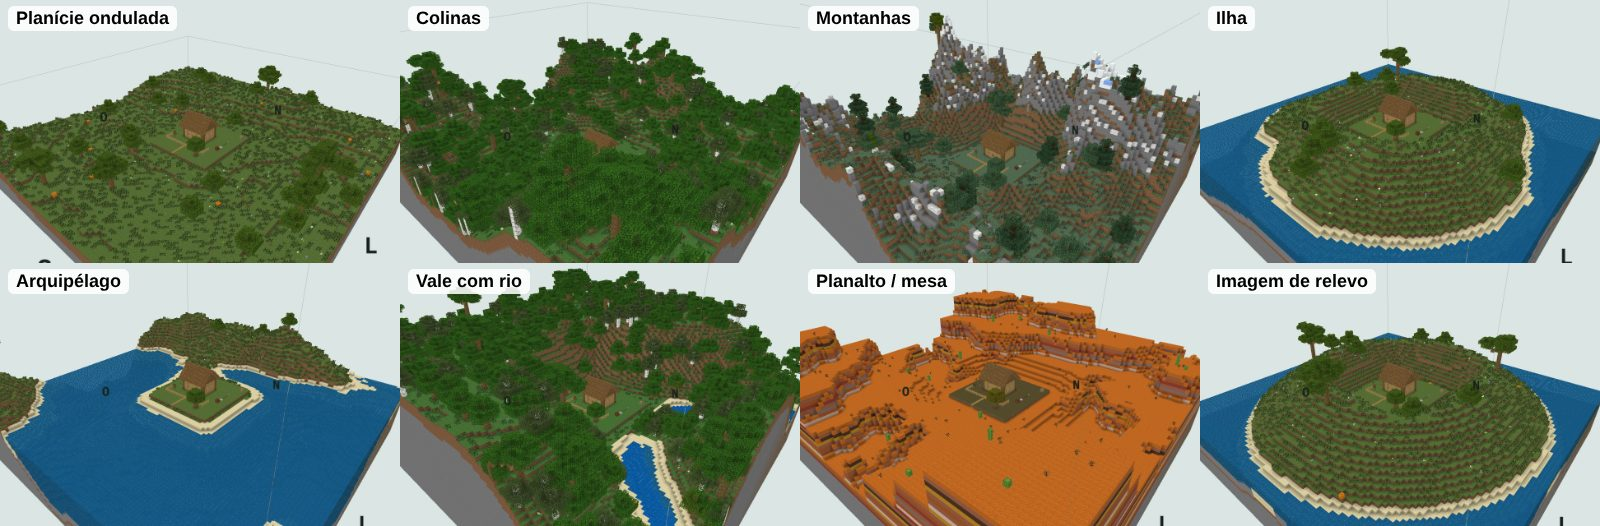
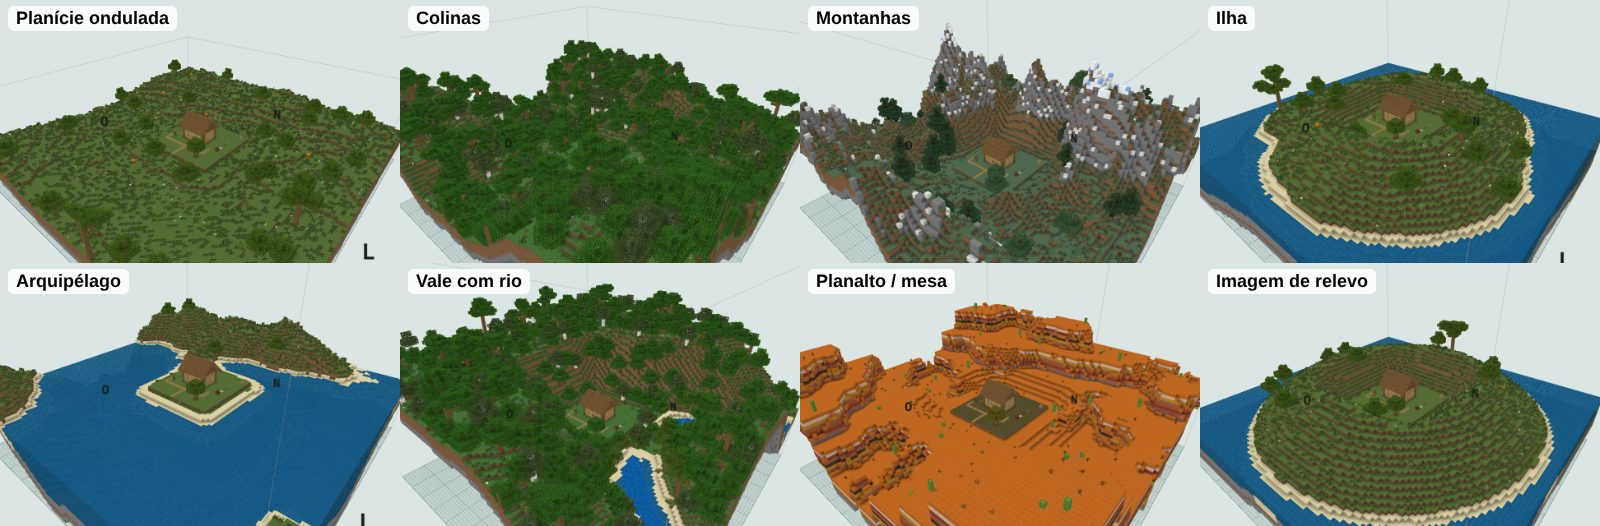
Gerar terreno: só a superfície (casca de 6 blocos)
O terreno deixa de preencher a coluna inteira até o fundo: fica uma casca de 6 blocos (grama
ou o chão do bioma, 3 de terra, 2 de pedra) que, nas encostas e paredões, desce até um abaixo
do topo da coluna vizinha mais baixa, para o lado não ficar oco. Embaixo fica vazio (montanhas
em volta da casa de exemplo: 68 mil blocos em vez de 250 mil). Guia e mosaico atualizados.

Claude-Session: https://claude.ai/code/session_01JyiX1qU1TmM8hzKqaAeyea

Changed region(s): [[0.0, 0.0304, 1.0, 1.0], [0.1562, 0.943, 0.2188, 1.0], [0.9375, 0.4563, 0.9688, 0.4867]]

diff --git a/guia/guia.html b/guia/guia.html
@@ -369,12 +369,13 @@ ol.steps li::marker{font:600 14px var(--mono);color:var(--accent)}
     <figure><img src="img/terreno-janela.jpg" alt="Janela Gerar terreno com a prévia vista de cima (a construção em vermelho), onde gerar, margem, tipo, bioma, altura, tamanho das formas, rugosidade, nível da água, semente e árvores e plantas" width="536" height="674" loading="lazy"><figcaption>A prévia de cima muda na hora; a construção aparece em vermelho.</figcaption></figure>
     <ul class="plain">
       <li><b>Onde</b>: <b>em volta da construção</b> (com a margem escolhida, de 8 a 256 blocos), <b>dentro da seleção</b> ou no <b>espaço inteiro</b>. Só os espaços vazios são preenchidos: nada do que você construiu é coberto.</li>
+      <li>Só a <b>superfície</b>: o terreno é uma casca de 6 blocos (grama ou o chão do bioma, 3 de terra e 2 de pedra). Nas encostas e paredões a casca desce até cobrir o lado à mostra, então não aparecem buracos; embaixo fica vazio. Assim pesa bem menos (montanhas em volta da casa de exemplo: 68 mil blocos em vez de 250 mil). Ao exportar o .mcstructure com <b>deixar o terreno intacto</b>, esse vazio embaixo mantém o chão que já existe no mundo.</li>
       <li><b>Tipo</b>: planície ondulada, colinas, montanhas (neve e pedra no alto, encostas de pedra), ilha (a construção fica no meio, com praia e mar em volta), arquipélago, vale com rio (o rio corre pelo lado com mais espaço, longe da construção), planalto / mesa (degraus com paredões e as faixas de terracota) e <b>imagem de relevo</b> (uma imagem em tons de cinza: branco alto, preto baixo).</li>
       <li><b>Bioma</b>: automático (o de cada tipo), <b>misto</b> (muda pelo terreno, de neve a deserto, como o clima do jogo) ou um bioma escolhido. A beira da água vira praia, o fundo vira oceano ou rio, e o alto das montanhas, neve e pedra. Os biomas são pintados nas colunas, então a cor da grama e das folhas sai certa, e vão para o mundo do jogo no .mcworld.</li>
       <li><b>Altura</b>, <b>tamanho das formas</b> (morros pequenos e próximos ou grandes e espaçados), <b>rugosidade</b>, <b>nível da água</b> (em relação ao chão da construção; desmarque para não ter água) e <b>semente</b> (a mesma semente dá o mesmo relevo; 🎲 sorteia outra). <b>Árvores e plantas</b> pode ser desligado; perto da construção não nascem árvores.</li>
       <li>Se faltar lugar (terreno embaixo da construção, a margem em volta, a altura das montanhas), o <b>espaço cresce</b> e a construção é movida: a janela avisa antes, e isso recomeça o histórico de desfazer. Depois, a geração inteira é <b>um passo</b> de <kbd>Ctrl</kbd>+<kbd>Z</kbd>.</li>
       <li>A água gerada fica parada como foi posta (não escorre pelas bordas do terreno). Dá para continuar com a escultura, o pincel de bioma e o balde por cima.</li>
-      <li>Tempo: em volta da casa de exemplo (10 mil colunas), de 1,5 a 4 s; montanhas com margem de 128 (70 mil colunas, 1,8 milhão de blocos), uns 5 s.</li>
+      <li>Tempo: em volta da casa de exemplo (10 mil colunas), de 1 a 2 s; com margem de 128 (70 mil colunas), uns 5 s.</li>
     </ul>
   </div>
   <h3>Simetria (espelho)</h3>
@@ -1053,7 +1054,7 @@ ol.steps li::marker{font:600 14px var(--mono);color:var(--accent)}
       <tr><td>Árvores com Usar</td><td>O formato imita o das árvores do jogo, mas não é idêntico ao gerador do Minecraft. Ninhos de abelha e o coração de rangedor não aparecem; fungos e cogumelos crescem em qualquer chão.</td></tr>
       <tr><td>Copiar e colar</td><td>A cópia do Ctrl+C fica só nesta aba (não vai para a área de transferência do sistema e some ao recarregar a página); para guardar, use a biblioteca. Girar é só de 90° na horizontal (com o espelhar, cobre as 8 posições no chão).</td></tr>
       <tr><td>Esculpir e simetria</td><td>O pincel de escultura trabalha coluna por coluna (não faz cavernas nem arcos). Na simetria, a água que escorre de uma fonte espelhada segue o próprio caminho (o escorrer não é espelhado), e cópias que caem fora do espaço não são feitas.</td></tr>
-      <tr><td>Gerar terreno</td><td>O terreno é maciço: sem cavernas nem minérios. Não reproduz o gerador do jogo (a mesma semente não dá o mesmo mundo do Minecraft). Com um mundo do jogo aberto, o terreno precisa caber na área. A imagem de relevo não fica salva (escolha de novo para gerar outra vez).</td></tr>
+      <tr><td>Gerar terreno</td><td>O terreno é só a superfície (casca de 6 blocos): embaixo fica vazio, sem cavernas nem minérios, e a borda vista de lado mostra a casca. Não reproduz o gerador do jogo (a mesma semente não dá o mesmo mundo do Minecraft). Com um mundo do jogo aberto, o terreno precisa caber na área. A imagem de relevo não fica salva (escolha de novo para gerar outra vez).</td></tr>
       <tr><td>Fantasma para o survival</td><td>Um por vez (exportar de novo substitui). Só aparece até uns 64 blocos do suporte (por isso os pedaços de 32 × 32) e pode sumir olhando reto para cima, bem acima do suporte. Não confere se você colocou o bloco certo: um bloco sólido colocado só esconde o fantasma daquele lugar. Baús, camas, placas e estandartes aparecem simplificados, como no editor. Biomas não mudam a cor do capim no fantasma (sai a cor padrão). Funciona em mundos e Realms onde você pode ativar pacotes de recursos; servidores que obrigam o próprio pacote podem bloquear.</td></tr>
       <tr><td>Redstone</td><td>Não funcionam: TNT, dispensador, liberador, fabricador, sensor de sculk e bloco de comando. O sino aparece sem o corpo (só a armação). Os contêineres não guardam itens: o comparador lê o nível de conteúdo escolhido com Usar, que não vai para o mundo do jogo; o atril dá sempre 1 com livro (sem páginas a contar) e a moldura sempre 0. O baú com armadilha aberto conta como um jogador só (sinal 1). Carrinho, raio e armadilha são simulados com Usar (não há criaturas no editor); o baú aberto não fica salvo. Blocos empurrados pelo pistão não derrubam o que estava em cima deles (pó, tochas e plantas podem ficar flutuando), e o pistão não empurra a água. O sensor de luz considera o céu aberto (sem chuva e sem blocos em cima).</td></tr>
       <tr><td>Água e lava</td><td>Só escorrem para espaços vazios: não levam embora plantas e tochas nem enchem blocos (sem <i>waterlogging</i>). A superfície é plana em cada bloco (o jogo inclina entre níveis). A lava escorre como no mundo normal, não como no Nether.</td></tr>

diff --git a/guia/index.html b/guia/index.html
@@ -371,12 +371,13 @@ ol.steps li::marker{font:600 14px var(--mono);color:var(--accent)}
     <figure><img src="img/terreno-janela.jpg" alt="Janela Gerar terreno com a prévia vista de cima (a construção em vermelho), onde gerar, margem, tipo, bioma, altura, tamanho das formas, rugosidade, nível da água, semente e árvores e plantas" width="536" height="674" loading="lazy"><figcaption>A prévia de cima muda na hora; a construção aparece em vermelho.</figcaption></figure>
     <ul class="plain">
       <li><b>Onde</b>: <b>em volta da construção</b> (com a margem escolhida, de 8 a 256 blocos), <b>dentro da seleção</b> ou no <b>espaço inteiro</b>. Só os espaços vazios são preenchidos: nada do que você construiu é coberto.</li>
+      <li>Só a <b>superfície</b>: o terreno é uma casca de 6 blocos (grama ou o chão do bioma, 3 de terra e 2 de pedra). Nas encostas e paredões a casca desce até cobrir o lado à mostra, então não aparecem buracos; embaixo fica vazio. Assim pesa bem menos (montanhas em volta da casa de exemplo: 68 mil blocos em vez de 250 mil). Ao exportar o .mcstructure com <b>deixar o terreno intacto</b>, esse vazio embaixo mantém o chão que já existe no mundo.</li>
       <li><b>Tipo</b>: planície ondulada, colinas, montanhas (neve e pedra no alto, encostas de pedra), ilha (a construção fica no meio, com praia e mar em volta), arquipélago, vale com rio (o rio corre pelo lado com mais espaço, longe da construção), planalto / mesa (degraus com paredões e as faixas de terracota) e <b>imagem de relevo</b> (uma imagem em tons de cinza: branco alto, preto baixo).</li>
       <li><b>Bioma</b>: automático (o de cada tipo), <b>misto</b> (muda pelo terreno, de neve a deserto, como o clima do jogo) ou um bioma escolhido. A beira da água vira praia, o fundo vira oceano ou rio, e o alto das montanhas, neve e pedra. Os biomas são pintados nas colunas, então a cor da grama e das folhas sai certa, e vão para o mundo do jogo no .mcworld.</li>
       <li><b>Altura</b>, <b>tamanho das formas</b> (morros pequenos e próximos ou grandes e espaçados), <b>rugosidade</b>, <b>nível da água</b> (em relação ao chão da construção; desmarque para não ter água) e <b>semente</b> (a mesma semente dá o mesmo relevo; 🎲 sorteia outra). <b>Árvores e plantas</b> pode ser desligado; perto da construção não nascem árvores.</li>
       <li>Se faltar lugar (terreno embaixo da construção, a margem em volta, a altura das montanhas), o <b>espaço cresce</b> e a construção é movida: a janela avisa antes, e isso recomeça o histórico de desfazer. Depois, a geração inteira é <b>um passo</b> de <kbd>Ctrl</kbd>+<kbd>Z</kbd>.</li>
       <li>A água gerada fica parada como foi posta (não escorre pelas bordas do terreno). Dá para continuar com a escultura, o pincel de bioma e o balde por cima.</li>
-      <li>Tempo: em volta da casa de exemplo (10 mil colunas), de 1,5 a 4 s; montanhas com margem de 128 (70 mil colunas, 1,8 milhão de blocos), uns 5 s.</li>
+      <li>Tempo: em volta da casa de exemplo (10 mil colunas), de 1 a 2 s; com margem de 128 (70 mil colunas), uns 5 s.</li>
     </ul>
   </div>
   <h3>Simetria (espelho)</h3>
@@ -1055,7 +1056,7 @@ ol.steps li::marker{font:600 14px var(--mono);color:var(--accent)}
       <tr><td>Árvores com Usar</td><td>O formato imita o das árvores do jogo, mas não é idêntico ao gerador do Minecraft. Ninhos de abelha e o coração de rangedor não aparecem; fungos e cogumelos crescem em qualquer chão.</td></tr>
       <tr><td>Copiar e colar</td><td>A cópia do Ctrl+C fica só nesta aba (não vai para a área de transferência do sistema e some ao recarregar a página); para guardar, use a biblioteca. Girar é só de 90° na horizontal (com o espelhar, cobre as 8 posições no chão).</td></tr>
       <tr><td>Esculpir e simetria</td><td>O pincel de escultura trabalha coluna por coluna (não faz cavernas nem arcos). Na simetria, a água que escorre de uma fonte espelhada segue o próprio caminho (o escorrer não é espelhado), e cópias que caem fora do espaço não são feitas.</td></tr>
-      <tr><td>Gerar terreno</td><td>O terreno é maciço: sem cavernas nem minérios. Não reproduz o gerador do jogo (a mesma semente não dá o mesmo mundo do Minecraft). Com um mundo do jogo aberto, o terreno precisa caber na área. A imagem de relevo não fica salva (escolha de novo para gerar outra vez).</td></tr>
+      <tr><td>Gerar terreno</td><td>O terreno é só a superfície (casca de 6 blocos): embaixo fica vazio, sem cavernas nem minérios, e a borda vista de lado mostra a casca. Não reproduz o gerador do jogo (a mesma semente não dá o mesmo mundo do Minecraft). Com um mundo do jogo aberto, o terreno precisa caber na área. A imagem de relevo não fica salva (escolha de novo para gerar outra vez).</td></tr>
       <tr><td>Fantasma para o survival</td><td>Um por vez (exportar de novo substitui). Só aparece até uns 64 blocos do suporte (por isso os pedaços de 32 × 32) e pode sumir olhando reto para cima, bem acima do suporte. Não confere se você colocou o bloco certo: um bloco sólido colocado só esconde o fantasma daquele lugar. Baús, camas, placas e estandartes aparecem simplificados, como no editor. Biomas não mudam a cor do capim no fantasma (sai a cor padrão). Funciona em mundos e Realms onde você pode ativar pacotes de recursos; servidores que obrigam o próprio pacote podem bloquear.</td></tr>
       <tr><td>Redstone</td><td>Não funcionam: TNT, dispensador, liberador, fabricador, sensor de sculk e bloco de comando. O sino aparece sem o corpo (só a armação). Os contêineres não guardam itens: o comparador lê o nível de conteúdo escolhido com Usar, que não vai para o mundo do jogo; o atril dá sempre 1 com livro (sem páginas a contar) e a moldura sempre 0. O baú com armadilha aberto conta como um jogador só (sinal 1). Carrinho, raio e armadilha são simulados com Usar (não há criaturas no editor); o baú aberto não fica salvo. Blocos empurrados pelo pistão não derrubam o que estava em cima deles (pó, tochas e plantas podem ficar flutuando), e o pistão não empurra a água. O sensor de luz considera o céu aberto (sem chuva e sem blocos em cima).</td></tr>
       <tr><td>Água e lava</td><td>Só escorrem para espaços vazios: não levam embora plantas e tochas nem enchem blocos (sem <i>waterlogging</i>). A superfície é plana em cada bloco (o jogo inclina entre níveis). A lava escorre como no mundo normal, não como no Nether.</td></tr>

diff --git a/dist/artifact.html b/dist/artifact.html
@@ -6877,7 +6877,9 @@ function holoHelp(r, corner) {
 /* ---------- Gerar terreno ---------- */
 /* Projeto → Gerar terreno: relevo por ruído (ou por uma imagem em tons de cinza) em volta da construção, numa seleção
    ou no espaço inteiro. Oito tipos: planície ondulada, colinas, montanhas, ilha, arquipélago, vale com rio, planalto
-   (mesa) e imagem de relevo. O chão é pedra, terra e grama; abaixo do nível da água, água parada. Depois cada coluna
+   (mesa) e imagem de relevo. Só a superfície: uma casca de TR_SHELL blocos (grama, terra e pedra), que desce até
+   cobrir o lado exposto nas encostas (abaixo do topo da coluna vizinha mais baixa); o resto embaixo fica vazio. Abaixo
+   do nível da água, água parada. Depois cada coluna
    recebe um bioma (o escolhido, ou automático, ou misto pelo clima) e a receita dele (src/biome.js, bioTerra) troca as
    camadas de cima e põe árvores, plantas, cactos e neve. Praia na beira da água, fundo de oceano ou de rio debaixo
    d'água, neve e pedra no alto das montanhas.
@@ -6895,6 +6897,7 @@ var TR_TYPES = {
   planalto: { n: 'Planalto / mesa', A: 30, S: 50, sea: null, bio: 'mesa' },
   imagem: { n: 'Imagem de relevo', A: 32, S: 50, sea: -2, bio: 'plains' }
 };
+var TR_SHELL = 6; // profundidade da casca do terreno (grama, 3 de terra, 2 de pedra)
 var TR_BIOMES = ['plains', 'forest', 'birch_forest', 'flower_forest', 'meadow', 'taiga', 'mega_taiga', 'cherry_grove', 'savanna', 'desert', 'jungle', 'swampland', 'mesa', 'ice_plains', 'grove', 'extreme_hills'];
 var tr = { type: 'colinas', A: 24, S: 45, sea: -6, seaOn: true, rough: 50, seed: 1234, bio: 'auto', deco: true, margin: 32, where: 'build' };
 try { Object.assign(tr, JSON.parse(localStorage.getItem('bloco-a-bloco-terreno') || '{}')); } catch (e) {}
@@ -7009,7 +7012,7 @@ function trPlan(P, step) {
   var sea = P.seaOn && T.sea !== null ? P.sea : null;
   if (sea !== null && sea - 1 < minH) minH = Math.min(minH, sea - 1);
   // altura: o chão da construção fica logo abaixo do bloco mais baixo dela; sem construção, o fundo mais baixo fica em y 4
-  var G = any && bb ? bb.minY - 1 : 4 - minH, needBelow = 4 - minH; // pelo menos 4 blocos abaixo do ponto mais fundo
+  var G = any && bb ? bb.minY - 1 : TR_SHELL - minH, needBelow = TR_SHELL - minH; // a casca do ponto mais fundo cabe no espaço
   var dy = Math.max(0, needBelow - G), dx = Math.max(0, -x0), dz = Math.max(0, -z0);
   var top = G + dy + Math.max(maxH, sea === null ? 0 : sea) + 14; // árvores em cima
   var nsx = Math.max(SX + dx, x1 + dx + 1), nsy = Math.min(MAX_Y, Math.max(SY + dy, top + 1)), nsz = Math.max(SZ + dz, z1 + dz + 1);
@@ -7079,7 +7082,10 @@ async function trGenerate(P) {
         var j = k * w + i, hgt = pl.hm[j], top = Math.min(SY - 1, G + hgt), y;
         var slope = 0; [[1, 0], [-1, 0], [0, 1], [0, -1]].forEach(function (d) { var h2 = hAt(i + d[0], k + d[1]); if (h2 !== null) slope = Math.max(slope, Math.abs(h2 - hgt)); });
         var under = sea !== null && hgt < sea, shore = sea !== null && !under && hgt <= sea + 1 && nearWater(i, k);
-        for (y = 0; y <= top; y++) {
+        // casca: TR_SHELL blocos, ou mais nas encostas, até um abaixo do topo da vizinha mais baixa (o lado não fica oco)
+        var low = top - TR_SHELL + 1;
+        [[1, 0], [-1, 0], [0, 1], [0, -1]].forEach(function (d) { var h2 = hAt(i + d[0], k + d[1]); if (h2 !== null && G + h2 < low) low = G + h2; });
+        for (y = Math.max(0, low); y <= top; y++) {
           if (gget(x, y, z)) continue;
           var c = y === top ? cGrass : y >= top - 3 ? cDirt : cStone;
           if (mesaCol && y > G - 8 && y < top - 1) c = cellFromName(MESA_BANDS[((y % 16) + 16) % 16]);

diff --git a/dist/bloco-a-bloco.html b/dist/bloco-a-bloco.html
@@ -6885,7 +6885,9 @@ function holoHelp(r, corner) {
 /* ---------- Gerar terreno ---------- */
 /* Projeto → Gerar terreno: relevo por ruído (ou por uma imagem em tons de cinza) em volta da construção, numa seleção
    ou no espaço inteiro. Oito tipos: planície ondulada, colinas, montanhas, ilha, arquipélago, vale com rio, planalto
-   (mesa) e imagem de relevo. O chão é pedra, terra e grama; abaixo do nível da água, água parada. Depois cada coluna
+   (mesa) e imagem de relevo. Só a superfície: uma casca de TR_SHELL blocos (grama, terra e pedra), que desce até
+   cobrir o lado exposto nas encostas (abaixo do topo da coluna vizinha mais baixa); o resto embaixo fica vazio. Abaixo
+   do nível da água, água parada. Depois cada coluna
    recebe um bioma (o escolhido, ou automático, ou misto pelo clima) e a receita dele (src/biome.js, bioTerra) troca as
    camadas de cima e põe árvores, plantas, cactos e neve. Praia na beira da água, fundo de oceano ou de rio debaixo
    d'água, neve e pedra no alto das montanhas.
@@ -6903,6 +6905,7 @@ var TR_TYPES = {
   planalto: { n: 'Planalto / mesa', A: 30, S: 50, sea: null, bio: 'mesa' },
   imagem: { n: 'Imagem de relevo', A: 32, S: 50, sea: -2, bio: 'plains' }
 };
+var TR_SHELL = 6; // profundidade da casca do terreno (grama, 3 de terra, 2 de pedra)
 var TR_BIOMES = ['plains', 'forest', 'birch_forest', 'flower_forest', 'meadow', 'taiga', 'mega_taiga', 'cherry_grove', 'savanna', 'desert', 'jungle', 'swampland', 'mesa', 'ice_plains', 'grove', 'extreme_hills'];
 var tr = { type: 'colinas', A: 24, S: 45, sea: -6, seaOn: true, rough: 50, seed: 1234, bio: 'auto', deco: true, margin: 32, where: 'build' };
 try { Object.assign(tr, JSON.parse(localStorage.getItem('bloco-a-bloco-terreno') || '{}')); } catch (e) {}
@@ -7017,7 +7020,7 @@ function trPlan(P, step) {
   var sea = P.seaOn && T.sea !== null ? P.sea : null;
   if (sea !== null && sea - 1 < minH) minH = Math.min(minH, sea - 1);
   // altura: o chão da construção fica logo abaixo do bloco mais baixo dela; sem construção, o fundo mais baixo fica em y 4
-  var G = any && bb ? bb.minY - 1 : 4 - minH, needBelow = 4 - minH; // pelo menos 4 blocos abaixo do ponto mais fundo
+  var G = any && bb ? bb.minY - 1 : TR_SHELL - minH, needBelow = TR_SHELL - minH; // a casca do ponto mais fundo cabe no espaço
   var dy = Math.max(0, needBelow - G), dx = Math.max(0, -x0), dz = Math.max(0, -z0);
   var top = G + dy + Math.max(maxH, sea === null ? 0 : sea) + 14; // árvores em cima
   var nsx = Math.max(SX + dx, x1 + dx + 1), nsy = Math.min(MAX_Y, Math.max(SY + dy, top + 1)), nsz = Math.max(SZ + dz, z1 + dz + 1);
@@ -7087,7 +7090,10 @@ async function trGenerate(P) {
         var j = k * w + i, hgt = pl.hm[j], top = Math.min(SY - 1, G + hgt), y;
         var slope = 0; [[1, 0], [-1, 0], [0, 1], [0, -1]].forEach(function (d) { var h2 = hAt(i + d[0], k + d[1]); if (h2 !== null) slope = Math.max(slope, Math.abs(h2 - hgt)); });
         var under = sea !== null && hgt < sea, shore = sea !== null && !under && hgt <= sea + 1 && nearWater(i, k);
-        for (y = 0; y <= top; y++) {
+        // casca: TR_SHELL blocos, ou mais nas encostas, até um abaixo do topo da vizinha mais baixa (o lado não fica oco)
+        var low = top - TR_SHELL + 1;
+        [[1, 0], [-1, 0], [0, 1], [0, -1]].forEach(function (d) { var h2 = hAt(i + d[0], k + d[1]); if (h2 !== null && G + h2 < low) low = G + h2; });
+        for (y = Math.max(0, low); y <= top; y++) {
           if (gget(x, y, z)) continue;
           var c = y === top ? cGrass : y >= top - 3 ? cDirt : cStone;
           if (mesaCol && y > G - 8 && y < top - 1) c = cellFromName(MESA_BANDS[((y % 16) + 16) % 16]);

diff --git a/src/terrain.js b/src/terrain.js
@@ -1,7 +1,9 @@
 /* ---------- Gerar terreno ---------- */
 /* Projeto → Gerar terreno: relevo por ruído (ou por uma imagem em tons de cinza) em volta da construção, numa seleção
    ou no espaço inteiro. Oito tipos: planície ondulada, colinas, montanhas, ilha, arquipélago, vale com rio, planalto
-   (mesa) e imagem de relevo. O chão é pedra, terra e grama; abaixo do nível da água, água parada. Depois cada coluna
+   (mesa) e imagem de relevo. Só a superfície: uma casca de TR_SHELL blocos (grama, terra e pedra), que desce até
+   cobrir o lado exposto nas encostas (abaixo do topo da coluna vizinha mais baixa); o resto embaixo fica vazio. Abaixo
+   do nível da água, água parada. Depois cada coluna
    recebe um bioma (o escolhido, ou automático, ou misto pelo clima) e a receita dele (src/biome.js, bioTerra) troca as
    camadas de cima e põe árvores, plantas, cactos e neve. Praia na beira da água, fundo de oceano ou de rio debaixo
    d'água, neve e pedra no alto das montanhas.
@@ -19,6 +21,7 @@ var TR_TYPES = {
   planalto: { n: 'Planalto / mesa', A: 30, S: 50, sea: null, bio: 'mesa' },
   imagem: { n: 'Imagem de relevo', A: 32, S: 50, sea: -2, bio: 'plains' }
 };
+var TR_SHELL = 6; // profundidade da casca do terreno (grama, 3 de terra, 2 de pedra)
 var TR_BIOMES = ['plains', 'forest', 'birch_forest', 'flower_forest', 'meadow', 'taiga', 'mega_taiga', 'cherry_grove', 'savanna', 'desert', 'jungle', 'swampland', 'mesa', 'ice_plains', 'grove', 'extreme_hills'];
 var tr = { type: 'colinas', A: 24, S: 45, sea: -6, seaOn: true, rough: 50, seed: 1234, bio: 'auto', deco: true, margin: 32, where: 'build' };
 try { Object.assign(tr, JSON.parse(localStorage.getItem('bloco-a-bloco-terreno') || '{}')); } catch (e) {}
@@ -133,7 +136,7 @@ function trPlan(P, step) {
   var sea = P.seaOn && T.sea !== null ? P.sea : null;
   if (sea !== null && sea - 1 < minH) minH = Math.min(minH, sea - 1);
   // altura: o chão da construção fica logo abaixo do bloco mais baixo dela; sem construção, o fundo mais baixo fica em y 4
-  var G = any && bb ? bb.minY - 1 : 4 - minH, needBelow = 4 - minH; // pelo menos 4 blocos abaixo do ponto mais fundo
+  var G = any && bb ? bb.minY - 1 : TR_SHELL - minH, needBelow = TR_SHELL - minH; // a casca do ponto mais fundo cabe no espaço
   var dy = Math.max(0, needBelow - G), dx = Math.max(0, -x0), dz = Math.max(0, -z0);
   var top = G + dy + Math.max(maxH, sea === null ? 0 : sea) + 14; // árvores em cima
   var nsx = Math.max(SX + dx, x1 + dx + 1), nsy = Math.min(MAX_Y, Math.max(SY + dy, top + 1)), nsz = Math.max(SZ + dz, z1 + dz + 1);
@@ -203,7 +206,10 @@ async function trGenerate(P) {
         var j = k * w + i, hgt = pl.hm[j], top = Math.min(SY - 1, G + hgt), y;
         var slope = 0; [[1, 0], [-1, 0], [0, 1], [0, -1]].forEach(function (d) { var h2 = hAt(i + d[0], k + d[1]); if (h2 !== null) slope = Math.max(slope, Math.abs(h2 - hgt)); });
         var under = sea !== null && hgt < sea, shore = sea !== null && !under && hgt <= sea + 1 && nearWater(i, k);
-        for (y = 0; y <= top; y++) {
+        // casca: TR_SHELL blocos, ou mais nas encostas, até um abaixo do topo da vizinha mais baixa (o lado não fica oco)
+        var low = top - TR_SHELL + 1;
+        [[1, 0], [-1, 0], [0, 1], [0, -1]].forEach(function (d) { var h2 = hAt(i + d[0], k + d[1]); if (h2 !== null && G + h2 < low) low = G + h2; });
+        for (y = Math.max(0, low); y <= top; y++) {
           if (gget(x, y, z)) continue;
           var c = y === top ? cGrass : y >= top - 3 ? cDirt : cStone;
           if (mesaCol && y > G - 8 && y < top - 1) c = cellFromName(MESA_BANDS[((y % 16) + 16) % 16]);
